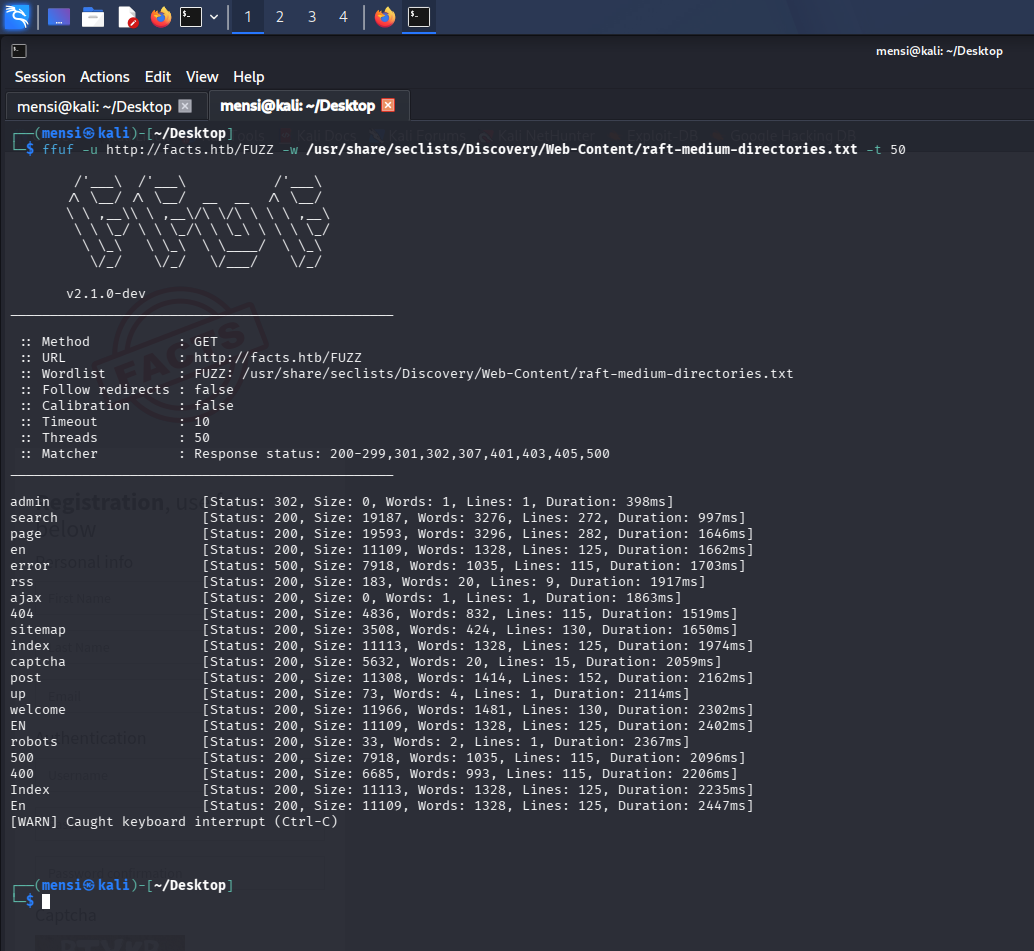
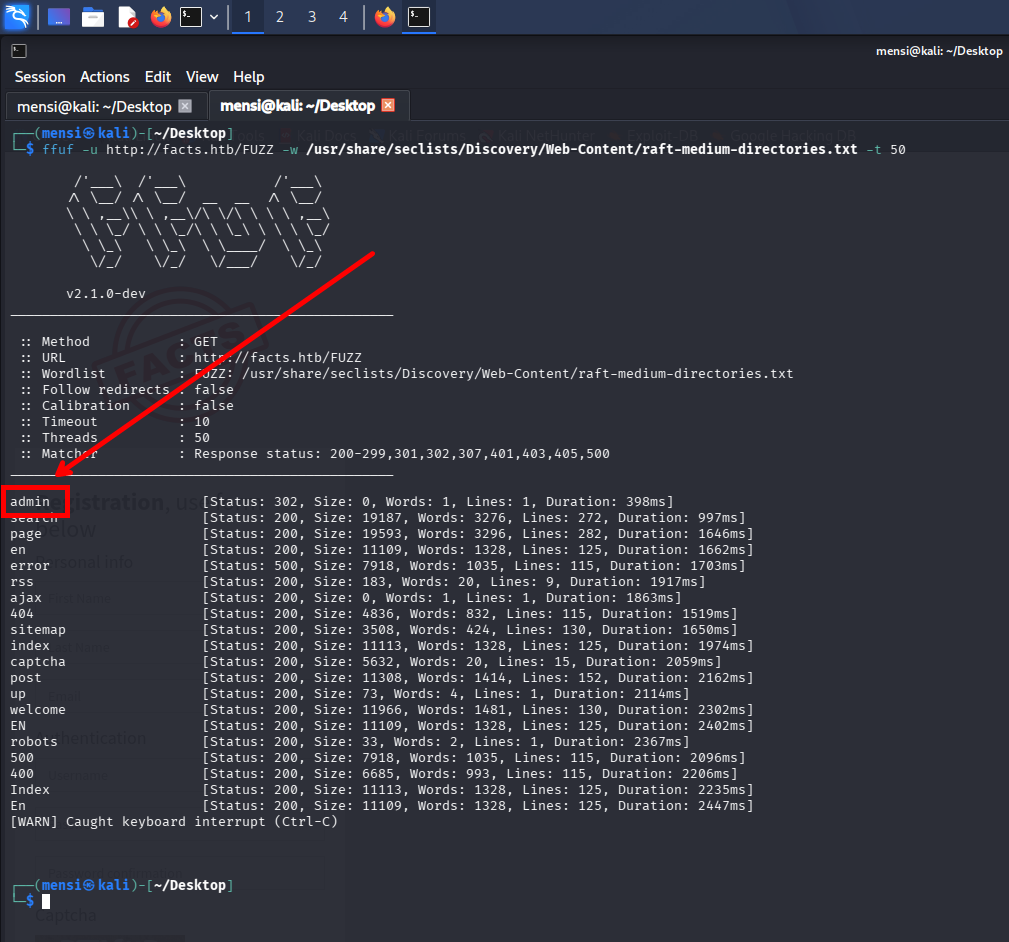
whatever

diff --git a/src/content/blog/htb/facts.md b/src/content/blog/htb/facts.md
@@ -219,7 +219,7 @@ ffuf -u http://facts.htb/FUZZ -w /usr/share/seclists/Discovery/Web-Content/raft-
 
 ![Alt text](../assets/htb/facts/10.png)
 
-After a bit of brute-forcing (and watching the terminal scroll like a slot machine), an interesting endpoint showed up:
+After a bit of brute-forcing, an interesting endpoint showed up:
 
 ```text
 /admin                  [Status: 302]
@@ -236,6 +236,24 @@ Opening it in the browser revealed the admin login page, confirming that we had 
 This led directly to the next stage of enumeration.
 
 ![Alt text](../assets/htb/facts/9.png)
+
+---
+
+## 5. Admin Login & CMS Identification
+
+After discovering `/admin`, I followed the redirect and landed directly on the **admin login page**.
+
+At first glance it looked like a normal authentication portal, offering both **Login** and **Register** options. Since credentials were not provided, I went for the classic HTB approach:
+
+If you can’t log in, just become a user.
+
+So I registered a new account and successfully logged in.
+
+While exploring the admin panel, I noticed something very useful in the page content and structure: the application was running **Camaleon CMS**. This was confirmed through visible references in the interface and CMS-specific routes, which instantly turned the situation from “random web app” into:
+
+> “Okay, now we’re dealing with something that probably has a CVE with my name on it.”
+
+This discovery was a key turning point, because identifying the CMS allowed me to search for known vulnerabilities and exploitation paths.
 
 ---
 
